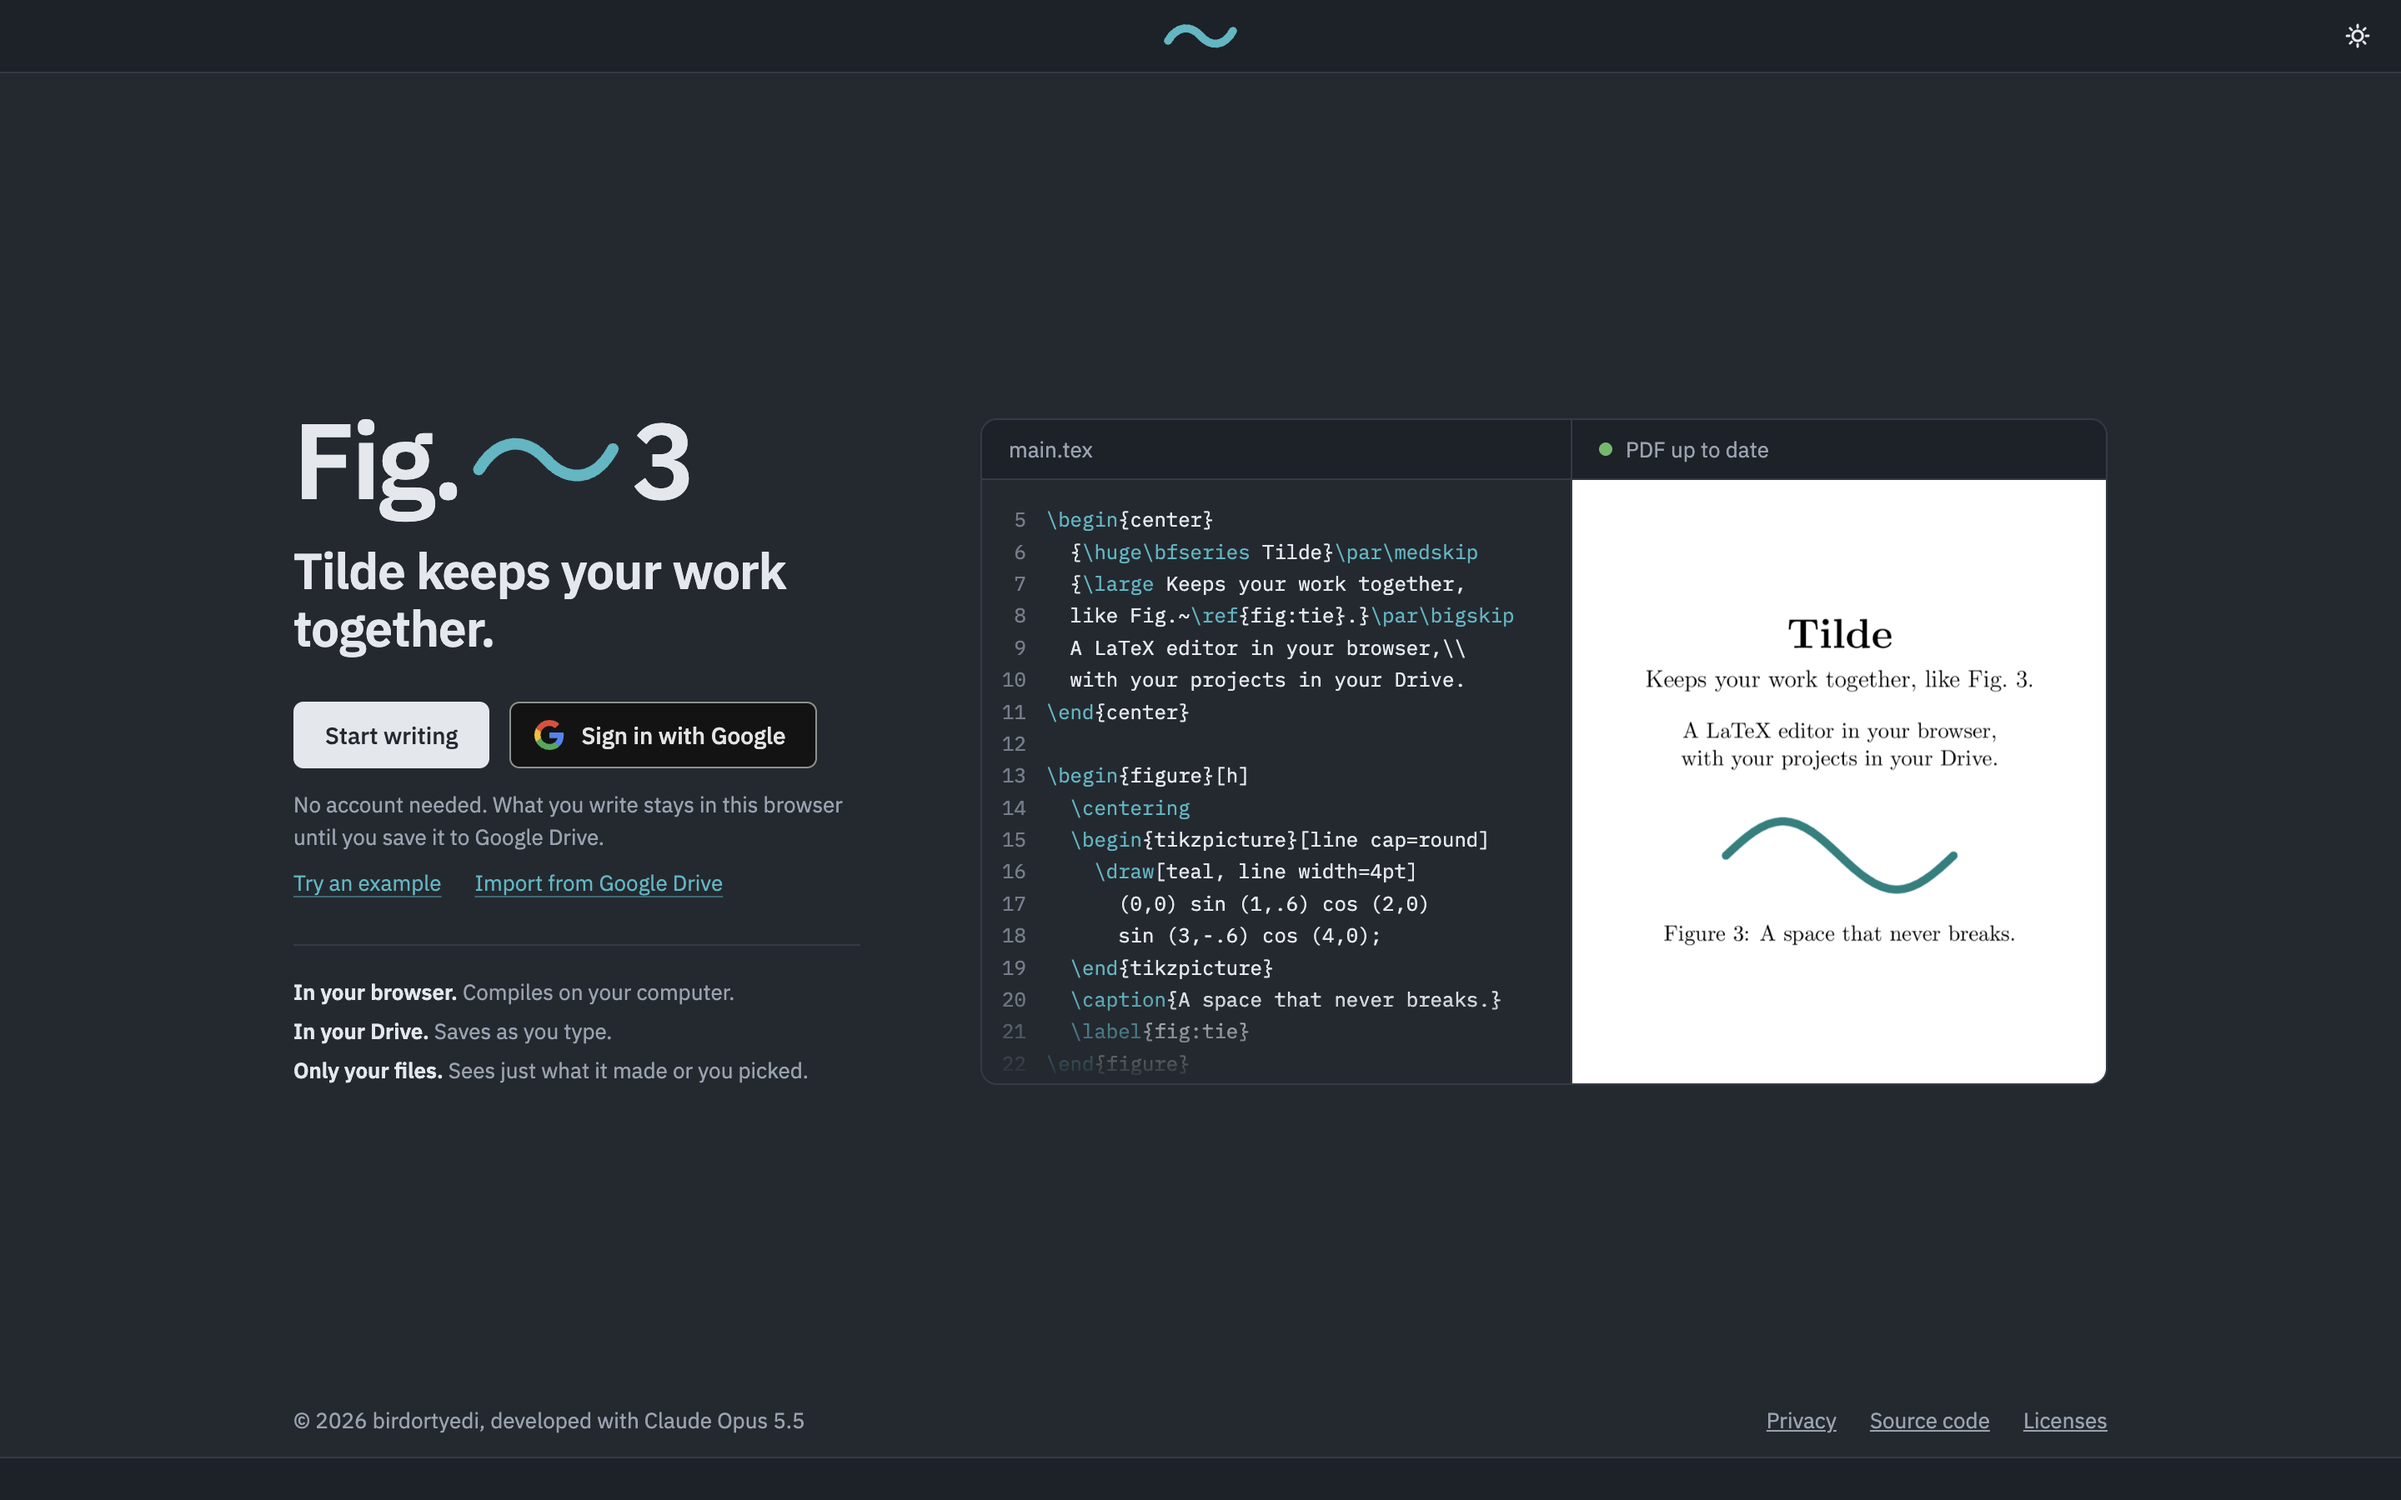
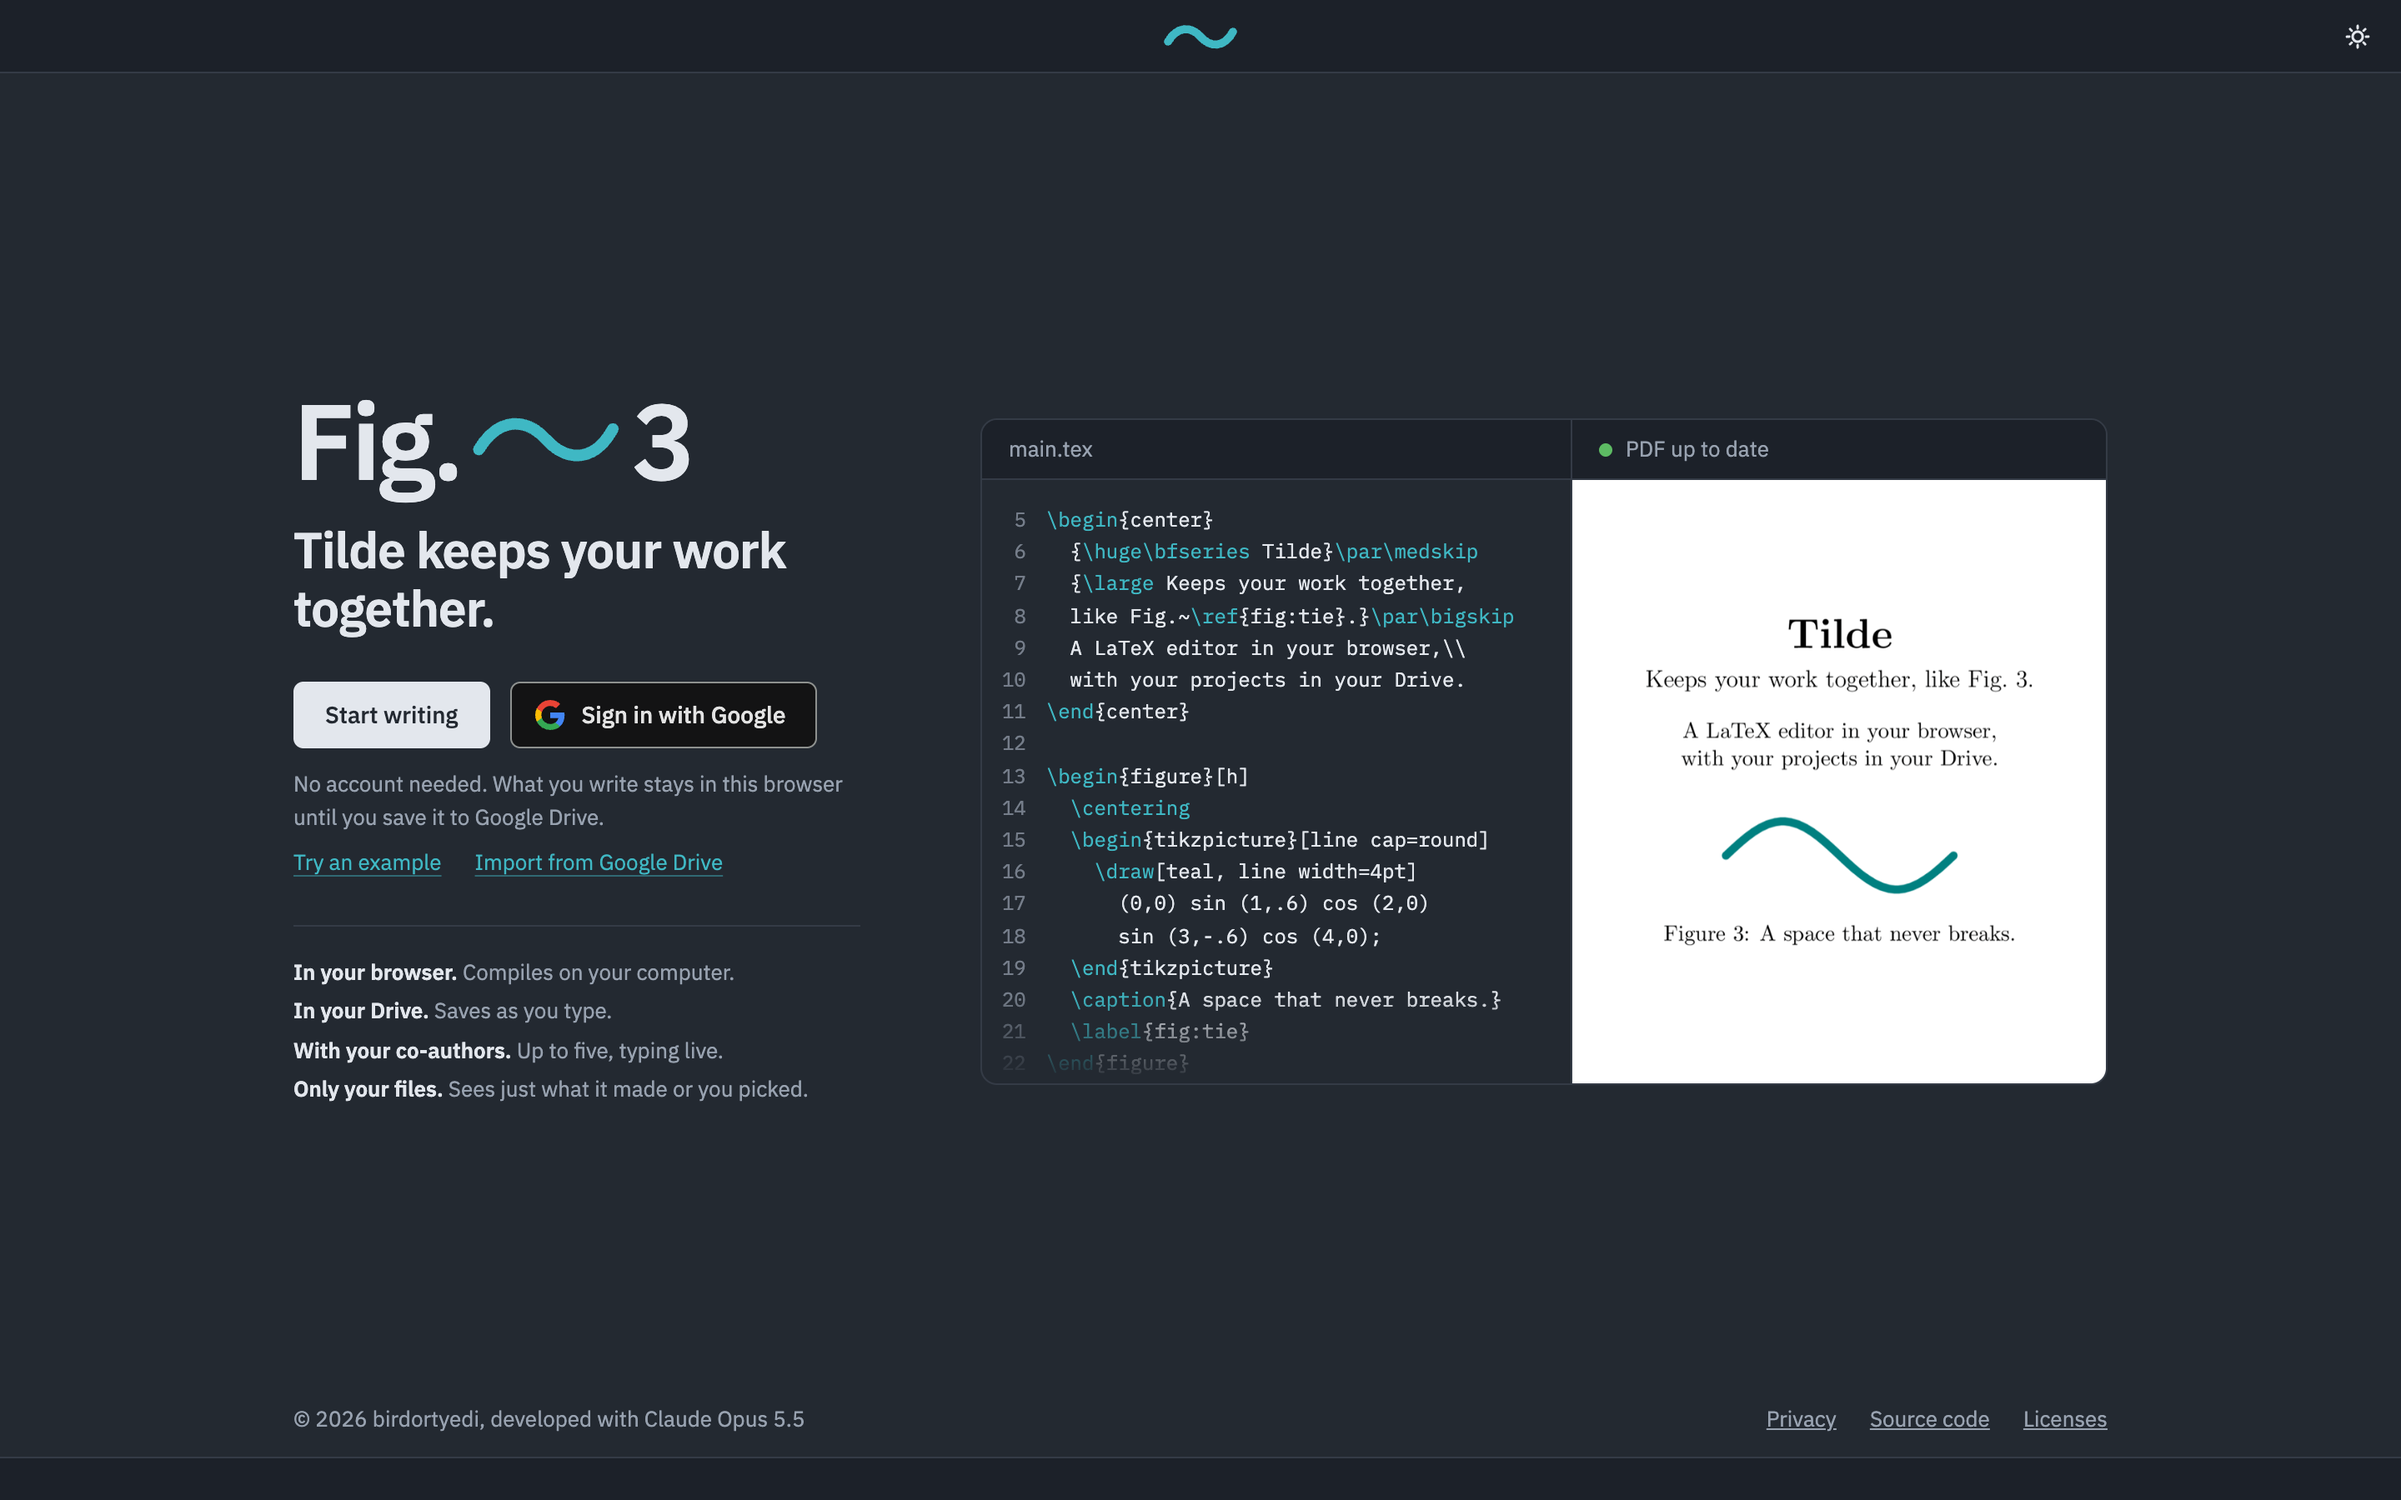
Four facts: writing with co-authors, live, on the cover and in the README

diff --git a/src/style.css b/src/style.css
@@ -778,7 +778,7 @@ button.link:focus-visible { outline: 2px solid var(--teal); outline-offset: 2px;
 .site-links a { color: inherit; }
 #projects-page.welcoming .site-links { display: flex; margin: 0; padding-top: 12px; }
 
-/* Under the ways to start: what Tilde is, in three lines. */
+/* Under the ways to start: what Tilde is, in four lines. */
 .welcome-facts {
   margin: clamp(16px, 3vh, 28px) 0 0; padding: clamp(12px, 2vh, 16px) 0 0; border-top: 1px solid var(--rule);
   list-style: none; color: var(--muted); font-size: 13px; line-height: 1.8;

diff --git a/index.html b/index.html
@@ -96,6 +96,7 @@
             <ul class="welcome-facts">
               <li><strong>In your browser.</strong> Compiles on your computer.</li>
               <li><strong>In your Drive.</strong> Saves as you type.</li>
+              <li><strong>With your co-authors.</strong> Up to five, typing live.</li>
               <li><strong>Only your files.</strong> Sees just what it made or you picked.</li>
             </ul>
           </div>

diff --git a/README.md b/README.md
@@ -11,7 +11,8 @@
 
 <p align="center">
   A free, open-source LaTeX editor that runs entirely in your browser<br>
-  and keeps your projects in your own Google Drive. No server, no account of ours, no cost.
+  and keeps your projects in your own Google Drive. Write with up to four co-authors, live.<br>
+  No server, no account of ours, no cost.
 </p>
 
 <p align="center"><b><a href="https://tildelatex.app">Open Tilde at tildelatex.app</a></b></p>
@@ -34,7 +35,7 @@ It covers what a researcher writing a paper, a thesis or TikZ figures needs, wit
 <p align="center">
   <picture>
     <source media="(prefers-color-scheme: dark)" srcset="docs/screenshots/welcome-dark.png">
-    <img src="docs/screenshots/welcome-light.png" alt="Tilde's welcome page: Fig.~3 and 'Tilde keeps your work together.', the buttons Start writing and Sign in with Google, links to try an example or import from Google Drive, three short facts, and on the right a short intro's LaTeX source next to its PDF, where Figure 3 is a tilde" width="900">
+    <img src="docs/screenshots/welcome-light.png" alt="Tilde's welcome page: Fig.~3 and 'Tilde keeps your work together.', the buttons Start writing and Sign in with Google, links to try an example or import from Google Drive, four short facts, and on the right a short intro's LaTeX source next to its PDF, where Figure 3 is a tilde" width="900">
   </picture>
 </p>
 
